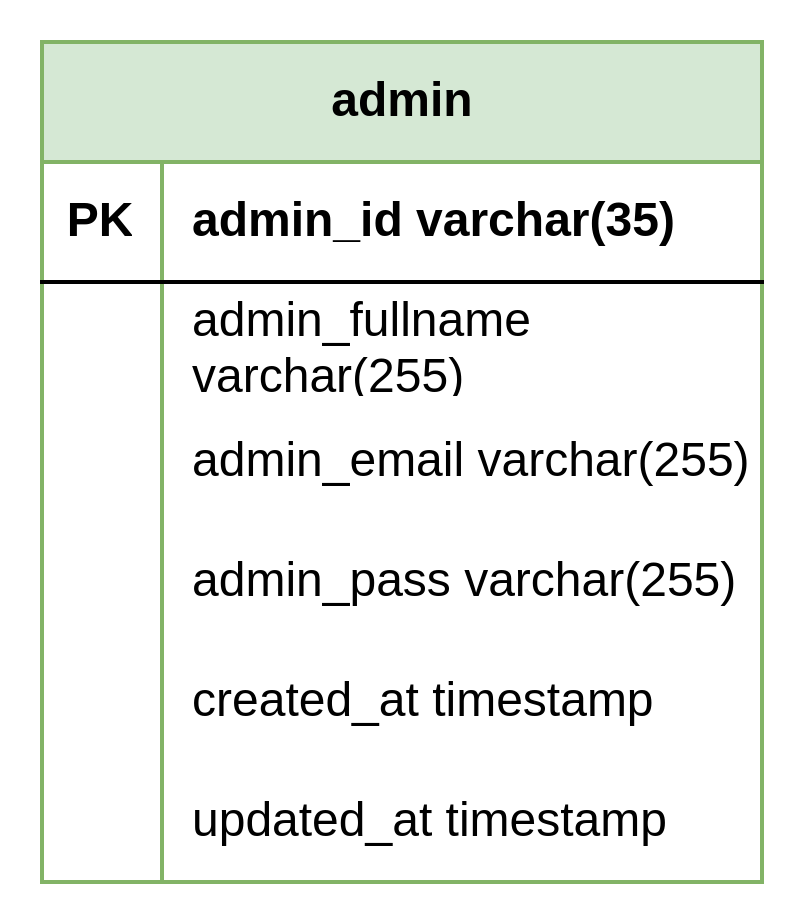
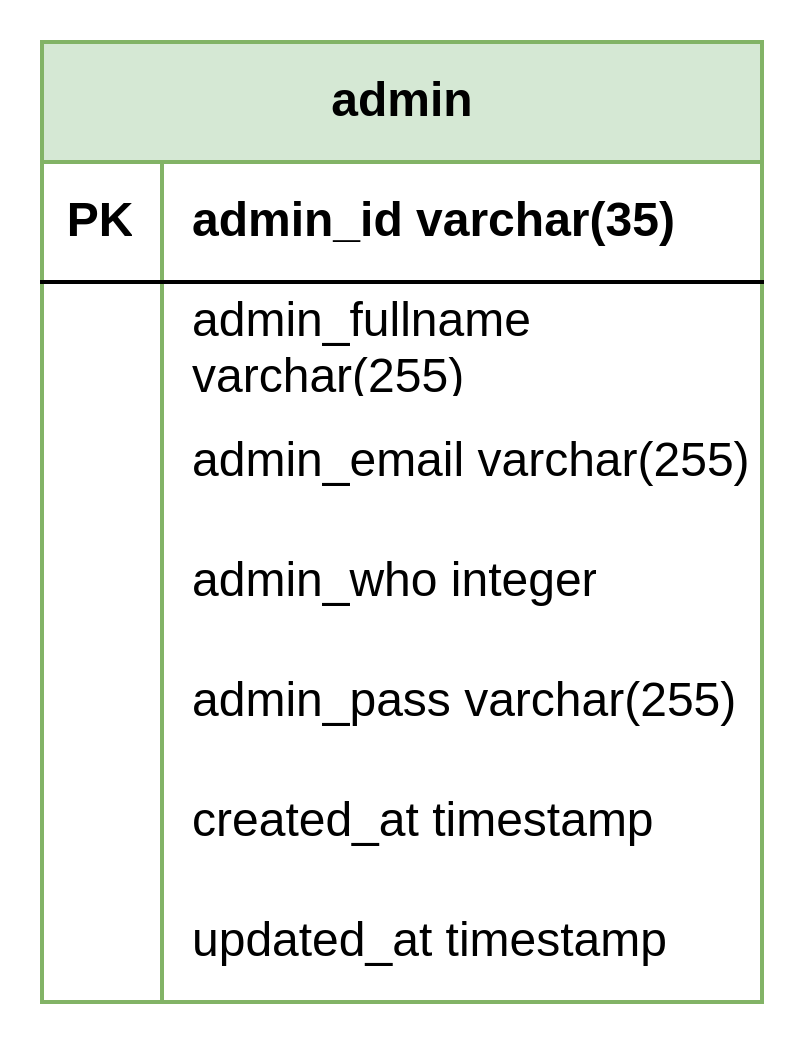
Next UPdated!

diff --git a/resources/views/index/api-admin.blade.php b/resources/views/index/api-admin.blade.php
@@ -71,6 +71,23 @@
             </div>
         </li>
         <li class="mb-3">
+            <p class="m-0 font-mono mb-2">admin_who</p>
+            <div class="m-0 d-flex flex-wrap align-items-center gap-2 text-secondary">
+                <div class="d-flex align-items-center lh-1">
+                    <i class="fas fa-circle fsz-5 me-1"></i>
+                    <p class="m-0 fsz-12">Integer</p>
+                </div>
+                <div class="d-flex align-items-center lh-1">
+                    <i class="fas fa-circle fsz-5 me-1"></i>
+                    <p class="m-0 fsz-12">Only 0 (root) or 1 (admin)</p>
+                </div>
+                <div class="d-flex align-items-center lh-1">
+                    <i class="fas fa-circle fsz-5 me-1"></i>
+                    <p class="m-0 fsz-12">Root data cannot be added, edited, or deleted</p>
+                </div>
+            </div>
+        </li>
+        <li class="mb-3">
             <p class="m-0 font-mono mb-2">admin_pass</p>
             <div class="m-0 d-flex flex-wrap align-items-center gap-2 text-secondary">
                 <div class="d-flex align-items-center lh-1">

diff --git a/app/Http/Controllers/API_AdminController.php b/app/Http/Controllers/API_AdminController.php
@@ -40,6 +40,7 @@ class API_AdminController extends Controller
             'admin_id' => LogicController::generateUniqueId('admin', 'admin_id'),
             'admin_fullname' => $request->admin_fullname,
             'admin_email' => $request->admin_email,
+            'admin_who' => 1,
             'admin_pass' => Hash::make($request->admin_pass),
         ];
 
@@ -71,6 +72,7 @@ class API_AdminController extends Controller
         $data = [
             'admin_fullname' => ($request->admin_fullname) ? $request->admin_fullname : $olddata->admin_fullname,
             'admin_email' => ($request->admin_email) ? $request->admin_email : $olddata->admin_email,
+            'admin_who' => 1,
             'admin_pass' => ($request->admin_pass) ? Hash::make($request->admin_pass) : $olddata->admin_pass,
         ];
 

diff --git a/resources/views/index/api-booking.blade.php b/resources/views/index/api-booking.blade.php
@@ -25,7 +25,10 @@
     <p class="m-0 fsz-10 text-secondary">Tabel utama</p>
     <p class="fw-bold">booking</p>
     <p class="m-0 fsz-10 text-secondary">Tabel yang berelasi</p>
-    <p class="fw-bold">-</p>
+    <ul class="fw-bold">
+        <li>customer : customer (1) - booking (M)</li>
+        <li>room : booking (1) - room (M)</li>
+    </ul>
 </div>
 <hr>
 <div class="">
@@ -105,5 +108,5 @@
 </div>
 <hr>
 <div class="d-flex justify-content-start">
-    <img src="{{ asset('assets/images/static/erd-booking.png') }}" style="width:40%;">
+    <img src="{{ asset('assets/images/static/erd-booking.png') }}" style="width:80%;">
 </div>

diff --git a/resources/views/index/api-room.blade.php b/resources/views/index/api-room.blade.php
@@ -37,7 +37,11 @@
     <p class="m-0 fsz-10 text-secondary">Tabel utama</p>
     <p class="fw-bold">room</p>
     <p class="m-0 fsz-10 text-secondary">Tabel yang berelasi</p>
-    <p class="fw-bold">-</p>
+    <ul class="fw-bold">
+        <li>room_image : room (1) - room_image (M)</li>
+        <li>room_facility : room (1) - room_facility (M)</li>
+        <li>booking : room (1) - booking (M)</li>
+    </ul>
 </div>
 <hr>
 <div class="">

diff --git a/database/migrations/2025_04_16_062424_admin.php b/database/migrations/2025_04_16_062424_admin.php
@@ -16,6 +16,7 @@ return new class extends Migration
             $table->string('admin_fullname', 255);
             $table->string('admin_email', 255)->unique();
             $table->string('admin_pass', 255);
+            $table->integer('admin_who');
             $table->timestamps();
         });
     }
